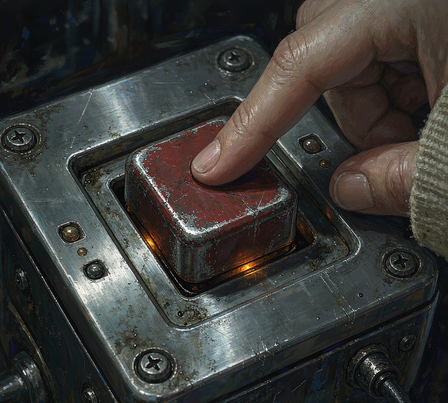
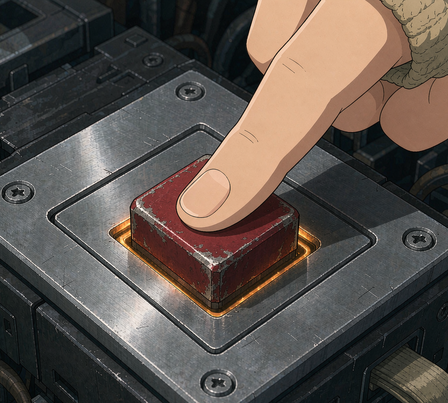
R339 批次 I 三张返工：手改动漫风、零件建立适配、魔力核心改俯视琥珀
8054 重启：第一版是照片级真实手（皮肤毛孔、指节褶皱、油腻高光），与干净的动漫卡面
不是一套语言。改成赛璐璐画法——一根食指从上方按下，指形只由三段圆润形体构成，
写死 NO knuckle creases / NO tendon lines / NO skin texture / NO pores / NO wrinkles，
一整块平涂肤色 + 一条硬边阴影，按钮按到低于面板边沿、缝隙透出暖琥珀。

8036 维修间：旧图机械臂抓的是缠铜线圈的圆柱机件（像马达），和下面的人形单位毫无接口
关系。改成同一套接口——钢球座在八孔法兰里，机体胸腔敞开成同直径、同孔数、同间距的
圆口，球正对洞口下降。「适配」不能靠文字说匹配，要写成可数的同构。

9076 魔力核心：原来平视整棵树、淡黄平圆盘带月面斑点，读起来就是月亮。改三点：
① 30 度俯视，判据写「看见叶子正面而不是背面透光」；
② 球占画幅约三分之一、居中，树冠四边被裁掉、中间拉开口子；
③ 琥珀感——内核金橙、边缘转琥珀棕、内部丝光气泡绕球面弯曲、并照亮周围叶尖。

方法论突破：画风和结构一样会被参照图锁死。8036 拿成品旧图写 REPAINT IN ANIME STYLE
加满否定句，输出几乎和输入一样；改用 8027 当风格参照 + input_fidelity low + 首句
ONLY AS AN ART-STYLE REFERENCE，一次跳到干净动漫线稿。img2img 三种用法（内容延续 /
局部替换 / 只借画风）已写进 ART.md。

纯插画替换，卡名 / 费用 / 稀有度 / 效果一律未动，卡图总数仍 60。
回归 engine 3598 / reward 26 / bgm 31 / smoke 42 全绿，索引体检通过。

diff --git a/art_src/2026-10-23_卡图修订B/README.md b/art_src/2026-10-23_卡图修订B/README.md
@@ -1,0 +1,71 @@
+# 2026-10-23 卡图修订 B（R339）——批次 I 三张返工
+
+用户反馈（原话）：
+
+> 重启的手太写实了，注意游戏整体风格。维修间零件明显和下面的机器人无法适配。
+> 魔力核心，从上往下30度俯视，魔力核心为主体，树冠可以不完整。而且这淡黄色光球太像月亮了，应该带一点琥珀感
+
+| 卡 | 用户问题 | 定稿做法 | 稿数 |
+|---|---|---|---|
+| 8054 重启 | 手太写实 | 动漫赛璐璐手：三段圆润指形、平涂肤色 + 一条硬边阴影、无指节折痕 / 无肌腱 / 无皮肤纹理 | 4 |
+| 8036 维修间 | 零件与机体不适配 | 零件换成「八孔法兰里的钢球」，机体胸口开同直径同孔数圆口，球正对洞口下降 | 6 |
+| 9076 魔力核心 | 视角平视 / 光球像月亮 | 30 度俯视（写「看见叶子正面」）、球占画幅约 1/3 且照亮周围叶子、琥珀树脂质感 | 6 |
+
+## 逐张记录
+
+### 8054 重启 —— 四稿
+
+- **v1（纯文生图）**：赛璐璐上色成功，但**手变成横着握住按钮**，按钮没被按下去。废弃。
+- **v2**：食指按下正确，但手指仍带真实皮肤纹理（指节褶皱、肉感光影）。废弃。
+- **v3**：同上，手还是偏写实。废弃。
+- **v4（采用）**：把手部描述改成**否定式清单**——
+  `NO drawn knuckle creases, NO tendon lines, NO skin texture, NO pores, NO wrinkles, NO visible veins`，
+  并写明「**只由三段圆润形体构成 + 一整块平涂肤色 + 一条硬边阴影**」、整只手其余部分出画失焦。
+  一次到位。
+
+> **教训**：写手不要只说「画一只动漫手」，要主动列「不画什么」。
+> 只要「肉感 / 毛孔 / 油腻高光」任意一样出现，画面立刻从「画的」变「拍的」。
+
+### 8036 维修间 —— 六稿
+
+- **v1**：机器人四肢齐全，只算「拆开」。废弃。
+- **v2**：球 + 圆环对应关系成立，但整体写实渲染、机体四肢齐。废弃。
+- **v3（img2img）**：`REPAINT THE SAME PICTURE IN ANIME STYLE` + 逐条否定写实渲染，
+  **输出与输入几乎一模一样**——画风被参照图锁死。废弃。
+- **v4**：纯文生图但写「明亮工坊」，仍偏写实且过暗。废弃。
+- **v5**：明亮了、关系也清楚，但仍是 3D 渲染质感。废弃。
+- **v6（采用）**：`image1` = **8027**（机械之心角色正典卡图），`input_fidelity` = **low**，
+  首句 `Use the reference image ONLY AS AN ART-STYLE REFERENCE: copy its drawing technique …`
+  `Do NOT copy its scene, its characters, its composition. Paint a COMPLETELY DIFFERENT scene`。
+  一次从 3D 渲染跳到干净动漫线稿。
+
+> **教训一（适配）**：「零件和机体适配」不能靠文字说「匹配」，要写成**可数的同构**——
+> **同直径 + 同孔数 + 同间距 + 同配色**，再加「零件正对接口下降」的方向关系。
+> **教训二（画风）**：画风（3D 渲染 vs 动漫）与结构一样会被参照图锁死，img2img 救不回来；
+> 换画风要用**风格参照**（另一张已定稿卡图 + `input_fidelity: low` + `ONLY AS AN ART-STYLE REFERENCE`）。
+
+### 9076 魔力核心 —— 六稿
+
+- **v1**：平视/仰视整棵树，淡黄平圆盘 + 月面斑点 → **读成月亮**。废弃。
+- **v2**：琥珀感对了，但**光球变成多面体**，视角仍平视。废弃。
+- **v3（关键突破）**：把「俯视」翻译成**「看见叶子正面（有光泽的上表面），不是背面、不是透光的叶脉」**——
+  视角一次翻上去；同时树冠被四边裁掉、枝条向外放射。但球偏小。
+- **v4**：img2img 放大到半幅，结果**太大太扁**，像一锅琥珀汤。废弃。
+- **v5**：img2img 改「三分之一画幅 + 球面明暗」，尺寸与体积都对，但**没照亮周围叶子**，读不出「发光体」。废弃。
+- **v6（采用）**：img2img 只改光——暖琥珀光溢出到近处叶片、叶尖转金、
+  内部丝状光与气泡**绕球面弯曲**、左上高光 + 右下暗边、壳外飘几粒发光微尘。
+
+> **教训一（俯视）**：写「high angle」没用，要写**「看见叶子正面而不是背面」**——
+> 从下往上看必然透光，这条一写视角立刻翻上去。
+> **教训二（像不像月亮）**：看三件事——**平不平**（有没有体积）、**黄不黄**（有没有琥珀的橙棕过渡）、
+> **亮不亮别人**（有没有照亮周围）。三样都补上，圆的也不会读成月亮。
+
+## 处理链
+
+切底部 11% 水印 → cover 1.1117 → LANCZOS 448×403 → `--headless --path . --import`
+
+## 文件
+
+- `raw/8054.png` / `raw/8036.png` / `raw/9076.png`：定稿 1024 原图
+- 其余为废稿，文件名带原因后缀（`_v1_手写实废弃` / `_v3_img2img未转风格废弃` 等），全部留档
+- 旧新对照：`art_src/_review/_r339_cardfix.png`（左旧右新，三行分别是维修间 / 重启 / 魔力核心）
